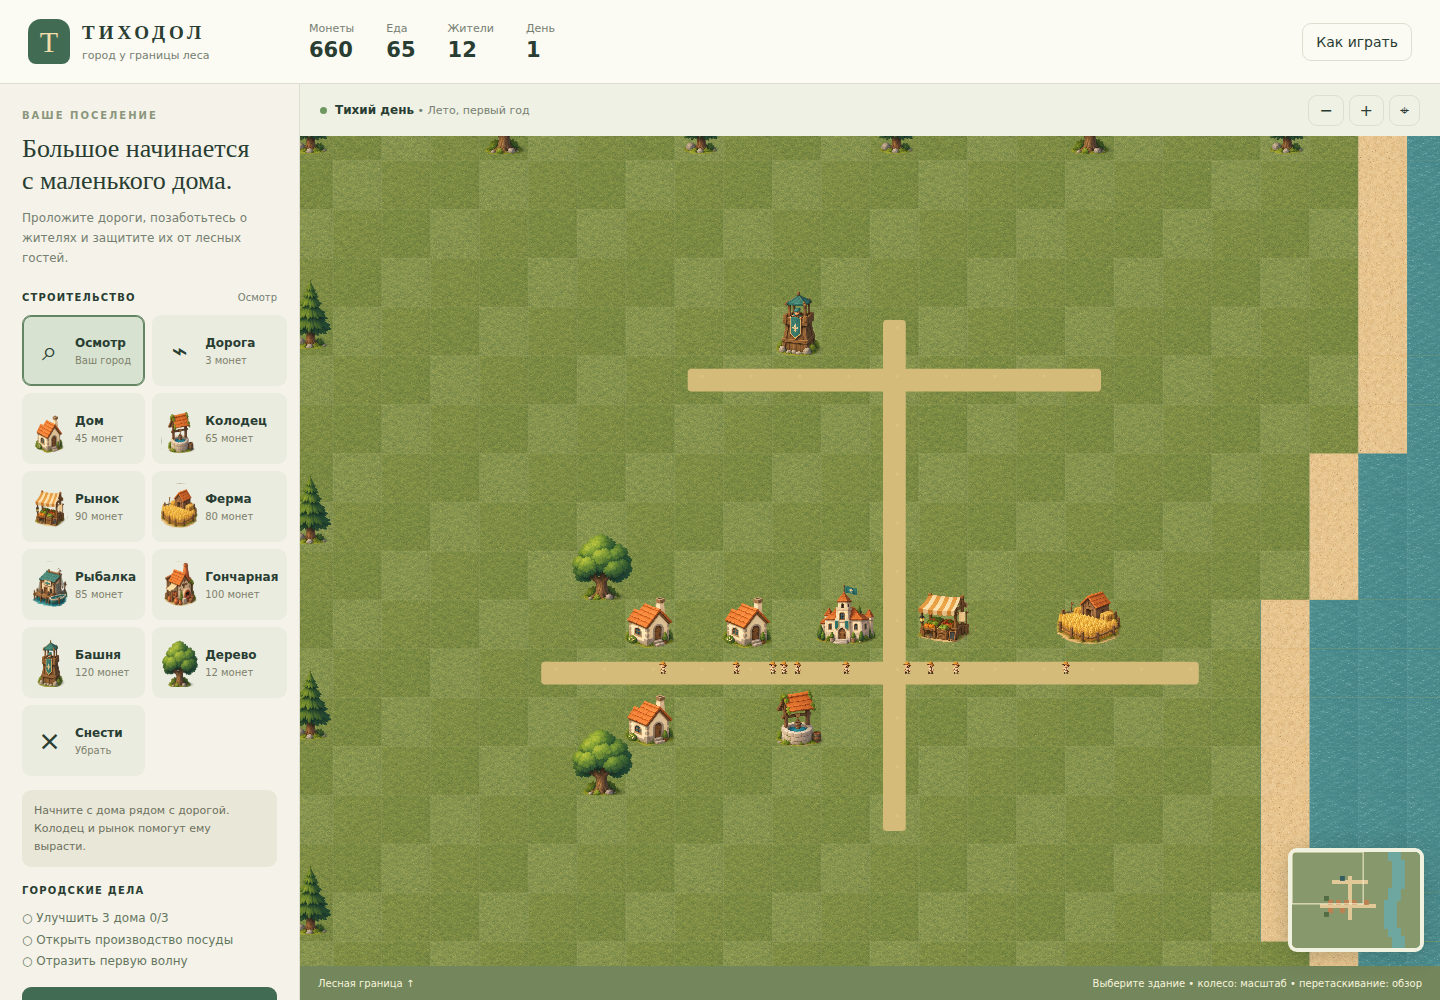
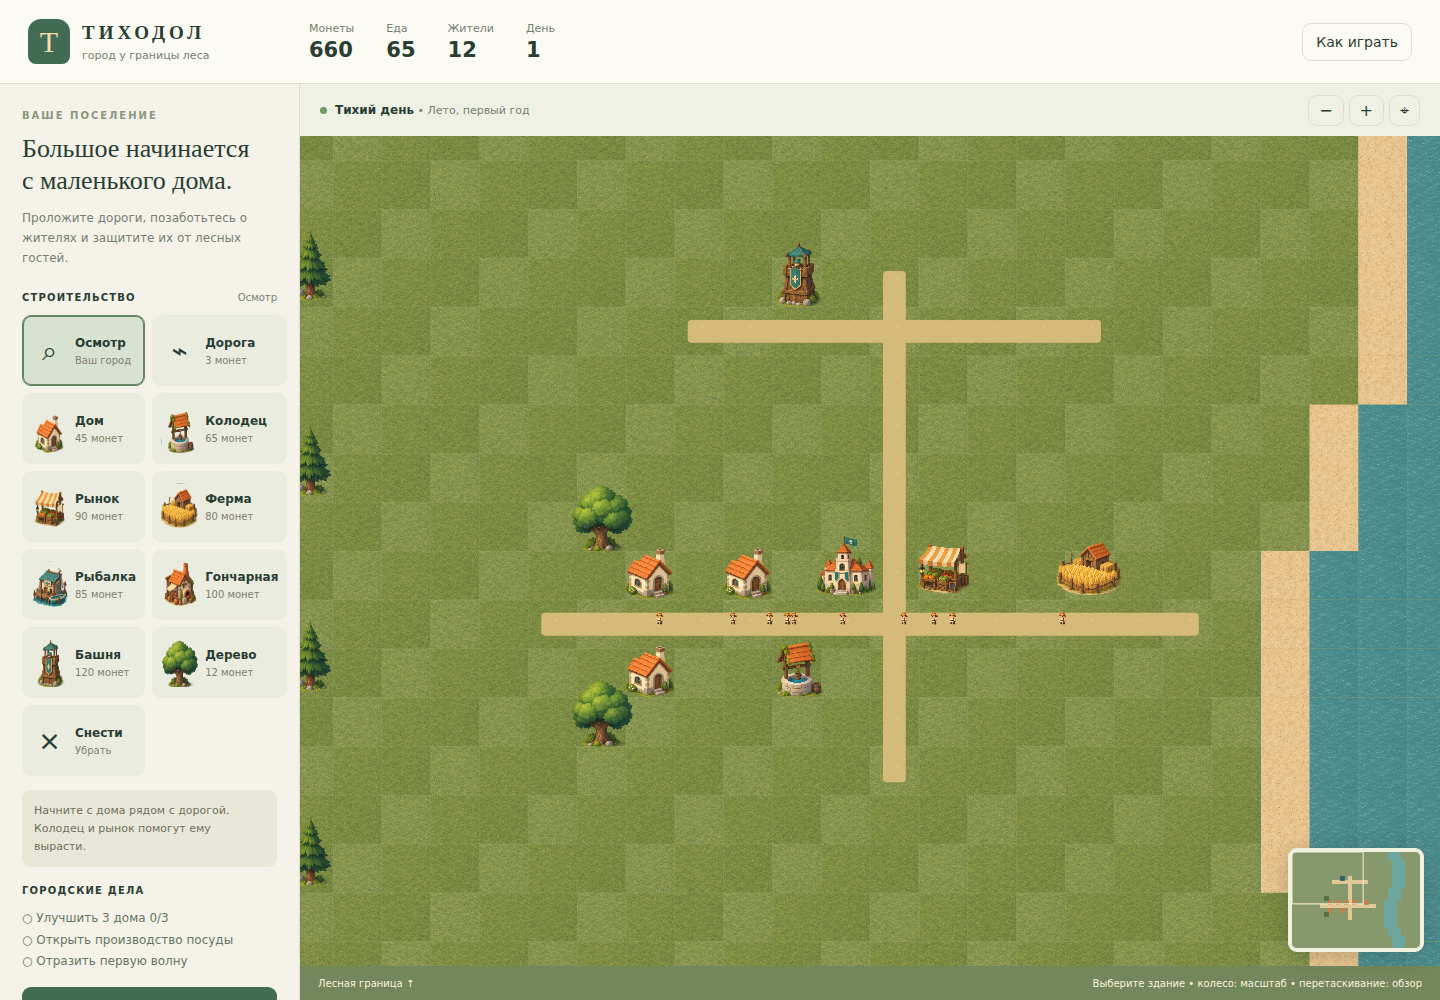
Улучшить масштаб на телефоне и зафиксировать браузерную проверку

diff --git a/game.js b/game.js
@@ -26,7 +26,7 @@ this.hover=this.add.graphics().setDepth(3000);this.ghost=this.add.image(0,0,'atl
 const cam=this.cameras.main;cam.setBounds(0,0,W*TILE,H*TILE);this.fit();this.scale.on('resize',()=>this.fit(false));this.input.on('pointerdown',p=>{this.down={x:p.x,y:p.y,scrollX:cam.scrollX,scrollY:cam.scrollY};this.moved=false;this.lastPaint='';if(tool==='road')this.paint(p);});this.input.on('pointermove',p=>{const pos=this.cell(p);this.drawHover(pos);if(!p.isDown||!this.down)return;if(Math.hypot(p.x-this.down.x,p.y-this.down.y)>6)this.moved=true;if(tool==='road'){this.paint(p);return;}if(tool==='inspect'){cam.scrollX=this.down.scrollX-(p.x-this.down.x)/cam.zoom;cam.scrollY=this.down.scrollY-(p.y-this.down.y)/cam.zoom;}});this.input.on('pointerup',p=>{if(this.down&&!this.moved&&tool!=='road')this.click(p);this.down=null;});this.input.on('wheel',(p,obj,dx,dy)=>this.zoom(dy>0?.9:1.1));
 city.onShot=(a,b)=>this.shot(a,b);city.onHit=b=>{const s=this.buildingSprites.get(b.id);if(s){s.setTint(0xffa184);this.time.delayedCall(120,()=>s.active&&s.clearTint());}};this.renderBuildings();this.makeVillagers();ui();this.updateMinimap();if(!localStorage.getItem('hearthvale-intro')){$('help-dialog').showModal();paused=true;localStorage.setItem('hearthvale-intro','1');}
 }
-fit(center=true){const cam=this.cameras.main;const z=Math.min(this.scale.width/(22*TILE),this.scale.height/(17*TILE));cam.setZoom(Math.max(.27,Math.min(.95,z)));if(center)cam.centerOn(14*TILE,11*TILE);}
+fit(center=true){const cam=this.cameras.main;const mobile=this.scale.width<760;const z=Math.min(this.scale.width/((mobile?10:22)*TILE),this.scale.height/((mobile?14:17)*TILE));cam.setZoom(Math.max(.27,Math.min(.95,z)));if(center)cam.centerOn(14*TILE,12*TILE);}
 zoom(f){const cam=this.cameras.main,cx=cam.midPoint.x,cy=cam.midPoint.y;cam.setZoom(Phaser.Math.Clamp(cam.zoom*f,.25,1.7));cam.centerOn(cx,cy);}
 cell(p){const point=this.cameras.main.getWorldPoint(p.x,p.y);return {x:Math.floor(point.x/TILE),y:Math.floor(point.y/TILE)};}
 drawHover({x,y}){this.hover.clear();this.ghost.setVisible(false);if(x<0||y<0||x>=W||y>=H)return;this.hover.lineStyle(2,tool==='demolish'?0xcf8768:0xfaf5d2,.8);this.hover.strokeRoundedRect(x*TILE+3,y*TILE+3,TILE-6,TILE-6,5);if(TYPES[tool].frame!==null&&tool!=='inspect'){this.ghost.setTexture('atlas','sprite'+TYPES[tool].frame).setPosition(x*TILE+32,y*TILE+48).setVisible(true);}}
